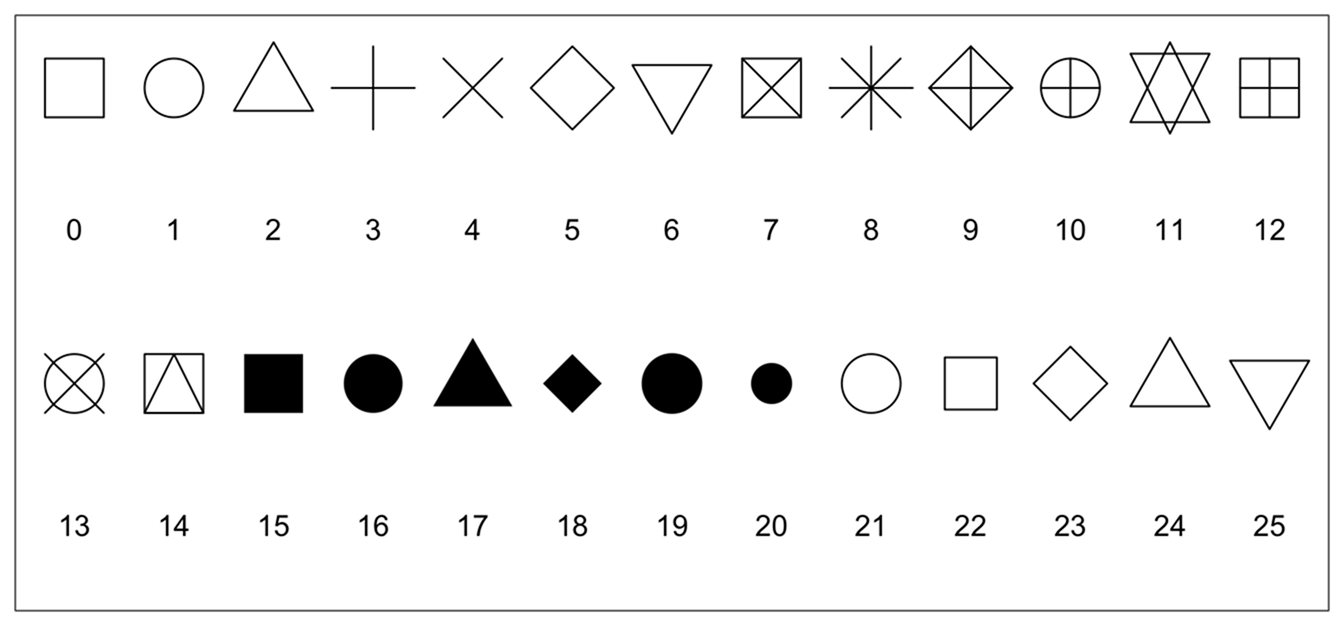
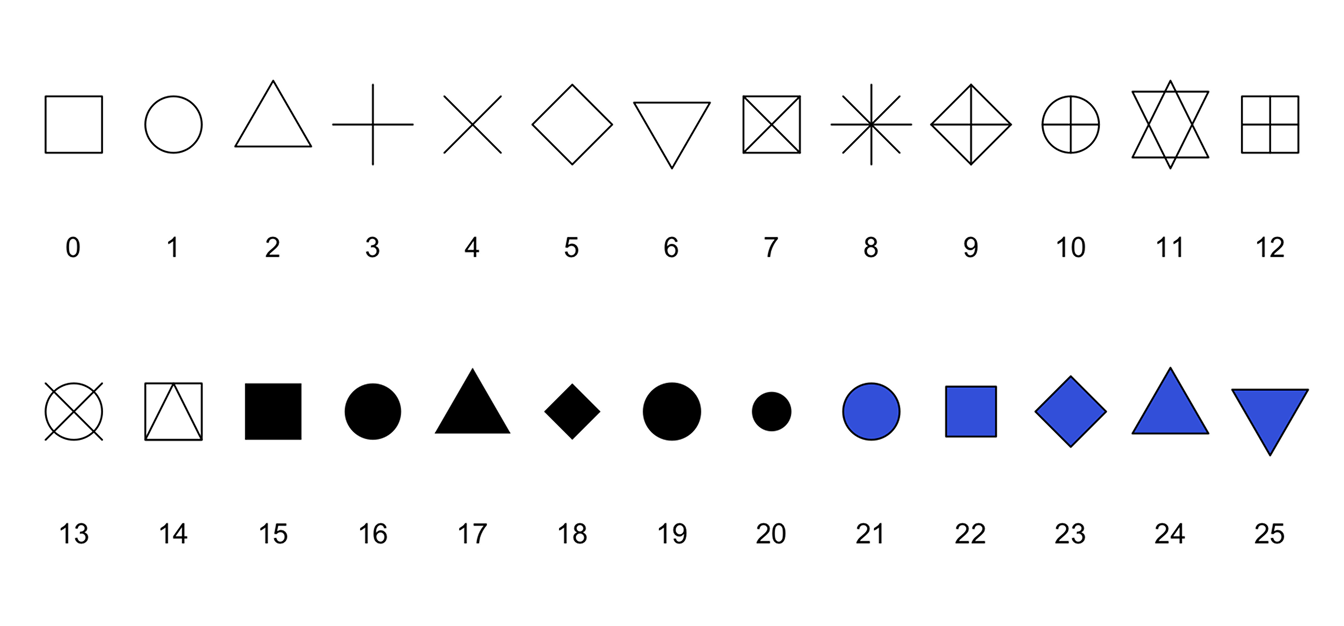
add colors, shapes & linetype pics + cache ggplot2

diff --git a/book/_book/r-visggplot.html b/book/_book/r-visggplot.html
@@ -623,21 +623,277 @@ background-size: cover;
 <div class="intro">
 <p>Вступление</p>
 </div>
+<div class="cell">
+<div class="sourceCode cell-code" id="cb2"><pre class="sourceCode r code-with-copy"><code class="sourceCode r"><span id="cb2-1"><a href="#cb2-1" aria-hidden="true" tabindex="-1"></a><span class="fu">colors</span>()</span></code><button title="Копировать" class="code-copy-button"><i class="bi"></i></button></pre></div>
+<div class="cell-output cell-output-stdout">
+<pre><code>  [1] "white"                "aliceblue"            "antiquewhite"        
+  [4] "antiquewhite1"        "antiquewhite2"        "antiquewhite3"       
+  [7] "antiquewhite4"        "aquamarine"           "aquamarine1"         
+ [10] "aquamarine2"          "aquamarine3"          "aquamarine4"         
+ [13] "azure"                "azure1"               "azure2"              
+ [16] "azure3"               "azure4"               "beige"               
+ [19] "bisque"               "bisque1"              "bisque2"             
+ [22] "bisque3"              "bisque4"              "black"               
+ [25] "blanchedalmond"       "blue"                 "blue1"               
+ [28] "blue2"                "blue3"                "blue4"               
+ [31] "blueviolet"           "brown"                "brown1"              
+ [34] "brown2"               "brown3"               "brown4"              
+ [37] "burlywood"            "burlywood1"           "burlywood2"          
+ [40] "burlywood3"           "burlywood4"           "cadetblue"           
+ [43] "cadetblue1"           "cadetblue2"           "cadetblue3"          
+ [46] "cadetblue4"           "chartreuse"           "chartreuse1"         
+ [49] "chartreuse2"          "chartreuse3"          "chartreuse4"         
+ [52] "chocolate"            "chocolate1"           "chocolate2"          
+ [55] "chocolate3"           "chocolate4"           "coral"               
+ [58] "coral1"               "coral2"               "coral3"              
+ [61] "coral4"               "cornflowerblue"       "cornsilk"            
+ [64] "cornsilk1"            "cornsilk2"            "cornsilk3"           
+ [67] "cornsilk4"            "cyan"                 "cyan1"               
+ [70] "cyan2"                "cyan3"                "cyan4"               
+ [73] "darkblue"             "darkcyan"             "darkgoldenrod"       
+ [76] "darkgoldenrod1"       "darkgoldenrod2"       "darkgoldenrod3"      
+ [79] "darkgoldenrod4"       "darkgray"             "darkgreen"           
+ [82] "darkgrey"             "darkkhaki"            "darkmagenta"         
+ [85] "darkolivegreen"       "darkolivegreen1"      "darkolivegreen2"     
+ [88] "darkolivegreen3"      "darkolivegreen4"      "darkorange"          
+ [91] "darkorange1"          "darkorange2"          "darkorange3"         
+ [94] "darkorange4"          "darkorchid"           "darkorchid1"         
+ [97] "darkorchid2"          "darkorchid3"          "darkorchid4"         
+[100] "darkred"              "darksalmon"           "darkseagreen"        
+[103] "darkseagreen1"        "darkseagreen2"        "darkseagreen3"       
+[106] "darkseagreen4"        "darkslateblue"        "darkslategray"       
+[109] "darkslategray1"       "darkslategray2"       "darkslategray3"      
+[112] "darkslategray4"       "darkslategrey"        "darkturquoise"       
+[115] "darkviolet"           "deeppink"             "deeppink1"           
+[118] "deeppink2"            "deeppink3"            "deeppink4"           
+[121] "deepskyblue"          "deepskyblue1"         "deepskyblue2"        
+[124] "deepskyblue3"         "deepskyblue4"         "dimgray"             
+[127] "dimgrey"              "dodgerblue"           "dodgerblue1"         
+[130] "dodgerblue2"          "dodgerblue3"          "dodgerblue4"         
+[133] "firebrick"            "firebrick1"           "firebrick2"          
+[136] "firebrick3"           "firebrick4"           "floralwhite"         
+[139] "forestgreen"          "gainsboro"            "ghostwhite"          
+[142] "gold"                 "gold1"                "gold2"               
+[145] "gold3"                "gold4"                "goldenrod"           
+[148] "goldenrod1"           "goldenrod2"           "goldenrod3"          
+[151] "goldenrod4"           "gray"                 "gray0"               
+[154] "gray1"                "gray2"                "gray3"               
+[157] "gray4"                "gray5"                "gray6"               
+[160] "gray7"                "gray8"                "gray9"               
+[163] "gray10"               "gray11"               "gray12"              
+[166] "gray13"               "gray14"               "gray15"              
+[169] "gray16"               "gray17"               "gray18"              
+[172] "gray19"               "gray20"               "gray21"              
+[175] "gray22"               "gray23"               "gray24"              
+[178] "gray25"               "gray26"               "gray27"              
+[181] "gray28"               "gray29"               "gray30"              
+[184] "gray31"               "gray32"               "gray33"              
+[187] "gray34"               "gray35"               "gray36"              
+[190] "gray37"               "gray38"               "gray39"              
+[193] "gray40"               "gray41"               "gray42"              
+[196] "gray43"               "gray44"               "gray45"              
+[199] "gray46"               "gray47"               "gray48"              
+[202] "gray49"               "gray50"               "gray51"              
+[205] "gray52"               "gray53"               "gray54"              
+[208] "gray55"               "gray56"               "gray57"              
+[211] "gray58"               "gray59"               "gray60"              
+[214] "gray61"               "gray62"               "gray63"              
+[217] "gray64"               "gray65"               "gray66"              
+[220] "gray67"               "gray68"               "gray69"              
+[223] "gray70"               "gray71"               "gray72"              
+[226] "gray73"               "gray74"               "gray75"              
+[229] "gray76"               "gray77"               "gray78"              
+[232] "gray79"               "gray80"               "gray81"              
+[235] "gray82"               "gray83"               "gray84"              
+[238] "gray85"               "gray86"               "gray87"              
+[241] "gray88"               "gray89"               "gray90"              
+[244] "gray91"               "gray92"               "gray93"              
+[247] "gray94"               "gray95"               "gray96"              
+[250] "gray97"               "gray98"               "gray99"              
+[253] "gray100"              "green"                "green1"              
+[256] "green2"               "green3"               "green4"              
+[259] "greenyellow"          "grey"                 "grey0"               
+[262] "grey1"                "grey2"                "grey3"               
+[265] "grey4"                "grey5"                "grey6"               
+[268] "grey7"                "grey8"                "grey9"               
+[271] "grey10"               "grey11"               "grey12"              
+[274] "grey13"               "grey14"               "grey15"              
+[277] "grey16"               "grey17"               "grey18"              
+[280] "grey19"               "grey20"               "grey21"              
+[283] "grey22"               "grey23"               "grey24"              
+[286] "grey25"               "grey26"               "grey27"              
+[289] "grey28"               "grey29"               "grey30"              
+[292] "grey31"               "grey32"               "grey33"              
+[295] "grey34"               "grey35"               "grey36"              
+[298] "grey37"               "grey38"               "grey39"              
+[301] "grey40"               "grey41"               "grey42"              
+[304] "grey43"               "grey44"               "grey45"              
+[307] "grey46"               "grey47"               "grey48"              
+[310] "grey49"               "grey50"               "grey51"              
+[313] "grey52"               "grey53"               "grey54"              
+[316] "grey55"               "grey56"               "grey57"              
+[319] "grey58"               "grey59"               "grey60"              
+[322] "grey61"               "grey62"               "grey63"              
+[325] "grey64"               "grey65"               "grey66"              
+[328] "grey67"               "grey68"               "grey69"              
+[331] "grey70"               "grey71"               "grey72"              
+[334] "grey73"               "grey74"               "grey75"              
+[337] "grey76"               "grey77"               "grey78"              
+[340] "grey79"               "grey80"               "grey81"              
+[343] "grey82"               "grey83"               "grey84"              
+[346] "grey85"               "grey86"               "grey87"              
+[349] "grey88"               "grey89"               "grey90"              
+[352] "grey91"               "grey92"               "grey93"              
+[355] "grey94"               "grey95"               "grey96"              
+[358] "grey97"               "grey98"               "grey99"              
+[361] "grey100"              "honeydew"             "honeydew1"           
+[364] "honeydew2"            "honeydew3"            "honeydew4"           
+[367] "hotpink"              "hotpink1"             "hotpink2"            
+[370] "hotpink3"             "hotpink4"             "indianred"           
+[373] "indianred1"           "indianred2"           "indianred3"          
+[376] "indianred4"           "ivory"                "ivory1"              
+[379] "ivory2"               "ivory3"               "ivory4"              
+[382] "khaki"                "khaki1"               "khaki2"              
+[385] "khaki3"               "khaki4"               "lavender"            
+[388] "lavenderblush"        "lavenderblush1"       "lavenderblush2"      
+[391] "lavenderblush3"       "lavenderblush4"       "lawngreen"           
+[394] "lemonchiffon"         "lemonchiffon1"        "lemonchiffon2"       
+[397] "lemonchiffon3"        "lemonchiffon4"        "lightblue"           
+[400] "lightblue1"           "lightblue2"           "lightblue3"          
+[403] "lightblue4"           "lightcoral"           "lightcyan"           
+[406] "lightcyan1"           "lightcyan2"           "lightcyan3"          
+[409] "lightcyan4"           "lightgoldenrod"       "lightgoldenrod1"     
+[412] "lightgoldenrod2"      "lightgoldenrod3"      "lightgoldenrod4"     
+[415] "lightgoldenrodyellow" "lightgray"            "lightgreen"          
+[418] "lightgrey"            "lightpink"            "lightpink1"          
+[421] "lightpink2"           "lightpink3"           "lightpink4"          
+[424] "lightsalmon"          "lightsalmon1"         "lightsalmon2"        
+[427] "lightsalmon3"         "lightsalmon4"         "lightseagreen"       
+[430] "lightskyblue"         "lightskyblue1"        "lightskyblue2"       
+[433] "lightskyblue3"        "lightskyblue4"        "lightslateblue"      
+[436] "lightslategray"       "lightslategrey"       "lightsteelblue"      
+[439] "lightsteelblue1"      "lightsteelblue2"      "lightsteelblue3"     
+[442] "lightsteelblue4"      "lightyellow"          "lightyellow1"        
+[445] "lightyellow2"         "lightyellow3"         "lightyellow4"        
+[448] "limegreen"            "linen"                "magenta"             
+[451] "magenta1"             "magenta2"             "magenta3"            
+[454] "magenta4"             "maroon"               "maroon1"             
+[457] "maroon2"              "maroon3"              "maroon4"             
+[460] "mediumaquamarine"     "mediumblue"           "mediumorchid"        
+[463] "mediumorchid1"        "mediumorchid2"        "mediumorchid3"       
+[466] "mediumorchid4"        "mediumpurple"         "mediumpurple1"       
+[469] "mediumpurple2"        "mediumpurple3"        "mediumpurple4"       
+[472] "mediumseagreen"       "mediumslateblue"      "mediumspringgreen"   
+[475] "mediumturquoise"      "mediumvioletred"      "midnightblue"        
+[478] "mintcream"            "mistyrose"            "mistyrose1"          
+[481] "mistyrose2"           "mistyrose3"           "mistyrose4"          
+[484] "moccasin"             "navajowhite"          "navajowhite1"        
+[487] "navajowhite2"         "navajowhite3"         "navajowhite4"        
+[490] "navy"                 "navyblue"             "oldlace"             
+[493] "olivedrab"            "olivedrab1"           "olivedrab2"          
+[496] "olivedrab3"           "olivedrab4"           "orange"              
+[499] "orange1"              "orange2"              "orange3"             
+[502] "orange4"              "orangered"            "orangered1"          
+[505] "orangered2"           "orangered3"           "orangered4"          
+[508] "orchid"               "orchid1"              "orchid2"             
+[511] "orchid3"              "orchid4"              "palegoldenrod"       
+[514] "palegreen"            "palegreen1"           "palegreen2"          
+[517] "palegreen3"           "palegreen4"           "paleturquoise"       
+[520] "paleturquoise1"       "paleturquoise2"       "paleturquoise3"      
+[523] "paleturquoise4"       "palevioletred"        "palevioletred1"      
+[526] "palevioletred2"       "palevioletred3"       "palevioletred4"      
+[529] "papayawhip"           "peachpuff"            "peachpuff1"          
+[532] "peachpuff2"           "peachpuff3"           "peachpuff4"          
+[535] "peru"                 "pink"                 "pink1"               
+[538] "pink2"                "pink3"                "pink4"               
+[541] "plum"                 "plum1"                "plum2"               
+[544] "plum3"                "plum4"                "powderblue"          
+[547] "purple"               "purple1"              "purple2"             
+[550] "purple3"              "purple4"              "red"                 
+[553] "red1"                 "red2"                 "red3"                
+[556] "red4"                 "rosybrown"            "rosybrown1"          
+[559] "rosybrown2"           "rosybrown3"           "rosybrown4"          
+[562] "royalblue"            "royalblue1"           "royalblue2"          
+[565] "royalblue3"           "royalblue4"           "saddlebrown"         
+[568] "salmon"               "salmon1"              "salmon2"             
+[571] "salmon3"              "salmon4"              "sandybrown"          
+[574] "seagreen"             "seagreen1"            "seagreen2"           
+[577] "seagreen3"            "seagreen4"            "seashell"            
+[580] "seashell1"            "seashell2"            "seashell3"           
+[583] "seashell4"            "sienna"               "sienna1"             
+[586] "sienna2"              "sienna3"              "sienna4"             
+[589] "skyblue"              "skyblue1"             "skyblue2"            
+[592] "skyblue3"             "skyblue4"             "slateblue"           
+[595] "slateblue1"           "slateblue2"           "slateblue3"          
+[598] "slateblue4"           "slategray"            "slategray1"          
+[601] "slategray2"           "slategray3"           "slategray4"          
+[604] "slategrey"            "snow"                 "snow1"               
+[607] "snow2"                "snow3"                "snow4"               
+[610] "springgreen"          "springgreen1"         "springgreen2"        
+[613] "springgreen3"         "springgreen4"         "steelblue"           
+[616] "steelblue1"           "steelblue2"           "steelblue3"          
+[619] "steelblue4"           "tan"                  "tan1"                
+[622] "tan2"                 "tan3"                 "tan4"                
+[625] "thistle"              "thistle1"             "thistle2"            
+[628] "thistle3"             "thistle4"             "tomato"              
+[631] "tomato1"              "tomato2"              "tomato3"             
+[634] "tomato4"              "turquoise"            "turquoise1"          
+[637] "turquoise2"           "turquoise3"           "turquoise4"          
+[640] "violet"               "violetred"            "violetred1"          
+[643] "violetred2"           "violetred3"           "violetred4"          
+[646] "wheat"                "wheat1"               "wheat2"              
+[649] "wheat3"               "wheat4"               "whitesmoke"          
+[652] "yellow"               "yellow1"              "yellow2"             
+[655] "yellow3"              "yellow4"              "yellowgreen"         </code></pre>
+</div>
+</div>
+<div class="cell">
+<div class="cell-output-display">
+<div id="fig-colors" class="quarto-float quarto-figure quarto-figure-center anchored">
+<figure class="quarto-float quarto-float-fig figure">
+<div aria-describedby="fig-colors-caption-0ceaefa1-69ba-4598-a22c-09a6ac19f8ca">
+<a href="r-visggplot_files/figure-html/fig-colors-1.png" class="lightbox" data-gallery="quarto-lightbox-gallery-1" title="Иллюстрация&nbsp;10.1: Цвета, доступные в R"><img src="r-visggplot_files/figure-html/fig-colors-1.png" class="img-fluid figure-img" width="672"></a>
+</div>
+<figcaption class="quarto-float-caption-bottom quarto-float-caption quarto-float-fig" id="fig-colors-caption-0ceaefa1-69ba-4598-a22c-09a6ac19f8ca">
+Иллюстрация&nbsp;10.1: Цвета, доступные в R
+</figcaption>
+</figure>
+</div>
+</div>
+</div>
+<div class="cell">
+<div class="cell-output-display">
 <div id="fig-shapes" class="quarto-float quarto-figure quarto-figure-center anchored">
 <figure class="quarto-float quarto-float-fig figure">
 <div aria-describedby="fig-shapes-caption-0ceaefa1-69ba-4598-a22c-09a6ac19f8ca">
-<a href="img/r-visggplot/shapes.png" class="lightbox" data-gallery="quarto-lightbox-gallery-1" title="Иллюстрация&nbsp;10.1: Формы точек, доступные в R"><img src="img/r-visggplot/shapes.png" class="img-fluid figure-img"></a>
+<a href="r-visggplot_files/figure-html/fig-shapes-1.png" class="lightbox" data-gallery="quarto-lightbox-gallery-2" title="Иллюстрация&nbsp;10.2: Формы точек, доступные в R"><img src="r-visggplot_files/figure-html/fig-shapes-1.png" class="img-fluid figure-img" width="672"></a>
 </div>
 <figcaption class="quarto-float-caption-bottom quarto-float-caption quarto-float-fig" id="fig-shapes-caption-0ceaefa1-69ba-4598-a22c-09a6ac19f8ca">
-Иллюстрация&nbsp;10.1: Формы точек, доступные в R
+Иллюстрация&nbsp;10.2: Формы точек, доступные в R
 </figcaption>
 </figure>
+</div>
+</div>
+</div>
+<div class="cell">
+<div class="cell-output-display">
+<div id="fig-linetypes" class="quarto-float quarto-figure quarto-figure-center anchored">
+<figure class="quarto-float quarto-float-fig figure">
+<div aria-describedby="fig-linetypes-caption-0ceaefa1-69ba-4598-a22c-09a6ac19f8ca">
+<a href="r-visggplot_files/figure-html/fig-linetypes-1.png" class="lightbox" data-gallery="quarto-lightbox-gallery-3" title="Иллюстрация&nbsp;10.3: Типы линии, доступные в R"><img src="r-visggplot_files/figure-html/fig-linetypes-1.png" class="img-fluid figure-img" width="672"></a>
+</div>
+<figcaption class="quarto-float-caption-bottom quarto-float-caption quarto-float-fig" id="fig-linetypes-caption-0ceaefa1-69ba-4598-a22c-09a6ac19f8ca">
+Иллюстрация&nbsp;10.3: Типы линии, доступные в R
+</figcaption>
+</figure>
+</div>
+</div>
 </div>
 <hr>
 <section id="session_info" class="level6 unnumbered">
 <h6 class="unnumbered anchored" data-anchor-id="session_info">Session Info</h6>
 <div class="cell">
-<div class="sourceCode cell-code" id="cb2"><pre class="sourceCode r code-with-copy"><code class="sourceCode r"><span id="cb2-1"><a href="#cb2-1" aria-hidden="true" tabindex="-1"></a><span class="fu">sessionInfo</span>()</span></code><button title="Копировать" class="code-copy-button"><i class="bi"></i></button></pre></div>
+<div class="sourceCode cell-code" id="cb4"><pre class="sourceCode r code-with-copy"><code class="sourceCode r"><span id="cb4-1"><a href="#cb4-1" aria-hidden="true" tabindex="-1"></a><span class="fu">sessionInfo</span>()</span></code><button title="Копировать" class="code-copy-button"><i class="bi"></i></button></pre></div>
 <div class="cell-output cell-output-stdout">
 <pre><code>R version 4.4.0 (2024-04-24)
 Platform: x86_64-apple-darwin20
@@ -663,14 +919,15 @@ other attached packages:
 
 loaded via a namespace (and not attached):
  [1] gtable_0.3.6      jsonlite_1.8.9    compiler_4.4.0    tidyselect_1.2.1 
- [5] scales_1.3.0      fastmap_1.2.0     R6_2.5.1          generics_0.1.3   
- [9] knitr_1.47        htmlwidgets_1.6.4 munsell_0.5.1     pillar_1.9.0     
-[13] tzdb_0.4.0        rlang_1.1.4       utf8_1.2.4        stringi_1.8.4    
-[17] xfun_0.44         timechange_0.3.0  cli_3.6.3         withr_3.0.2      
-[21] magrittr_2.0.3    digest_0.6.37     grid_4.4.0        rstudioapi_0.16.0
-[25] hms_1.1.3         lifecycle_1.0.4   vctrs_0.6.5       evaluate_1.0.1   
-[29] glue_1.8.0        fansi_1.0.6       colorspace_2.1-1  rmarkdown_2.27   
-[33] tools_4.4.0       pkgconfig_2.0.3   htmltools_0.5.8.1</code></pre>
+ [5] scales_1.3.0      yaml_2.3.8        fastmap_1.2.0     R6_2.5.1         
+ [9] generics_0.1.3    knitr_1.47        htmlwidgets_1.6.4 munsell_0.5.1    
+[13] pillar_1.9.0      tzdb_0.4.0        rlang_1.1.4       utf8_1.2.4       
+[17] stringi_1.8.4     xfun_0.44         timechange_0.3.0  cli_3.6.3        
+[21] withr_3.0.2       magrittr_2.0.3    digest_0.6.37     grid_4.4.0       
+[25] rstudioapi_0.16.0 hms_1.1.3         lifecycle_1.0.4   vctrs_0.6.5      
+[29] evaluate_1.0.1    glue_1.8.0        farver_2.1.2      codetools_0.2-20 
+[33] fansi_1.0.6       colorspace_2.1-1  rmarkdown_2.27    tools_4.4.0      
+[37] pkgconfig_2.0.3   htmltools_0.5.8.1</code></pre>
 </div>
 </div>
 <script type="text/javascript" src="./js/chapter.js"></script>
